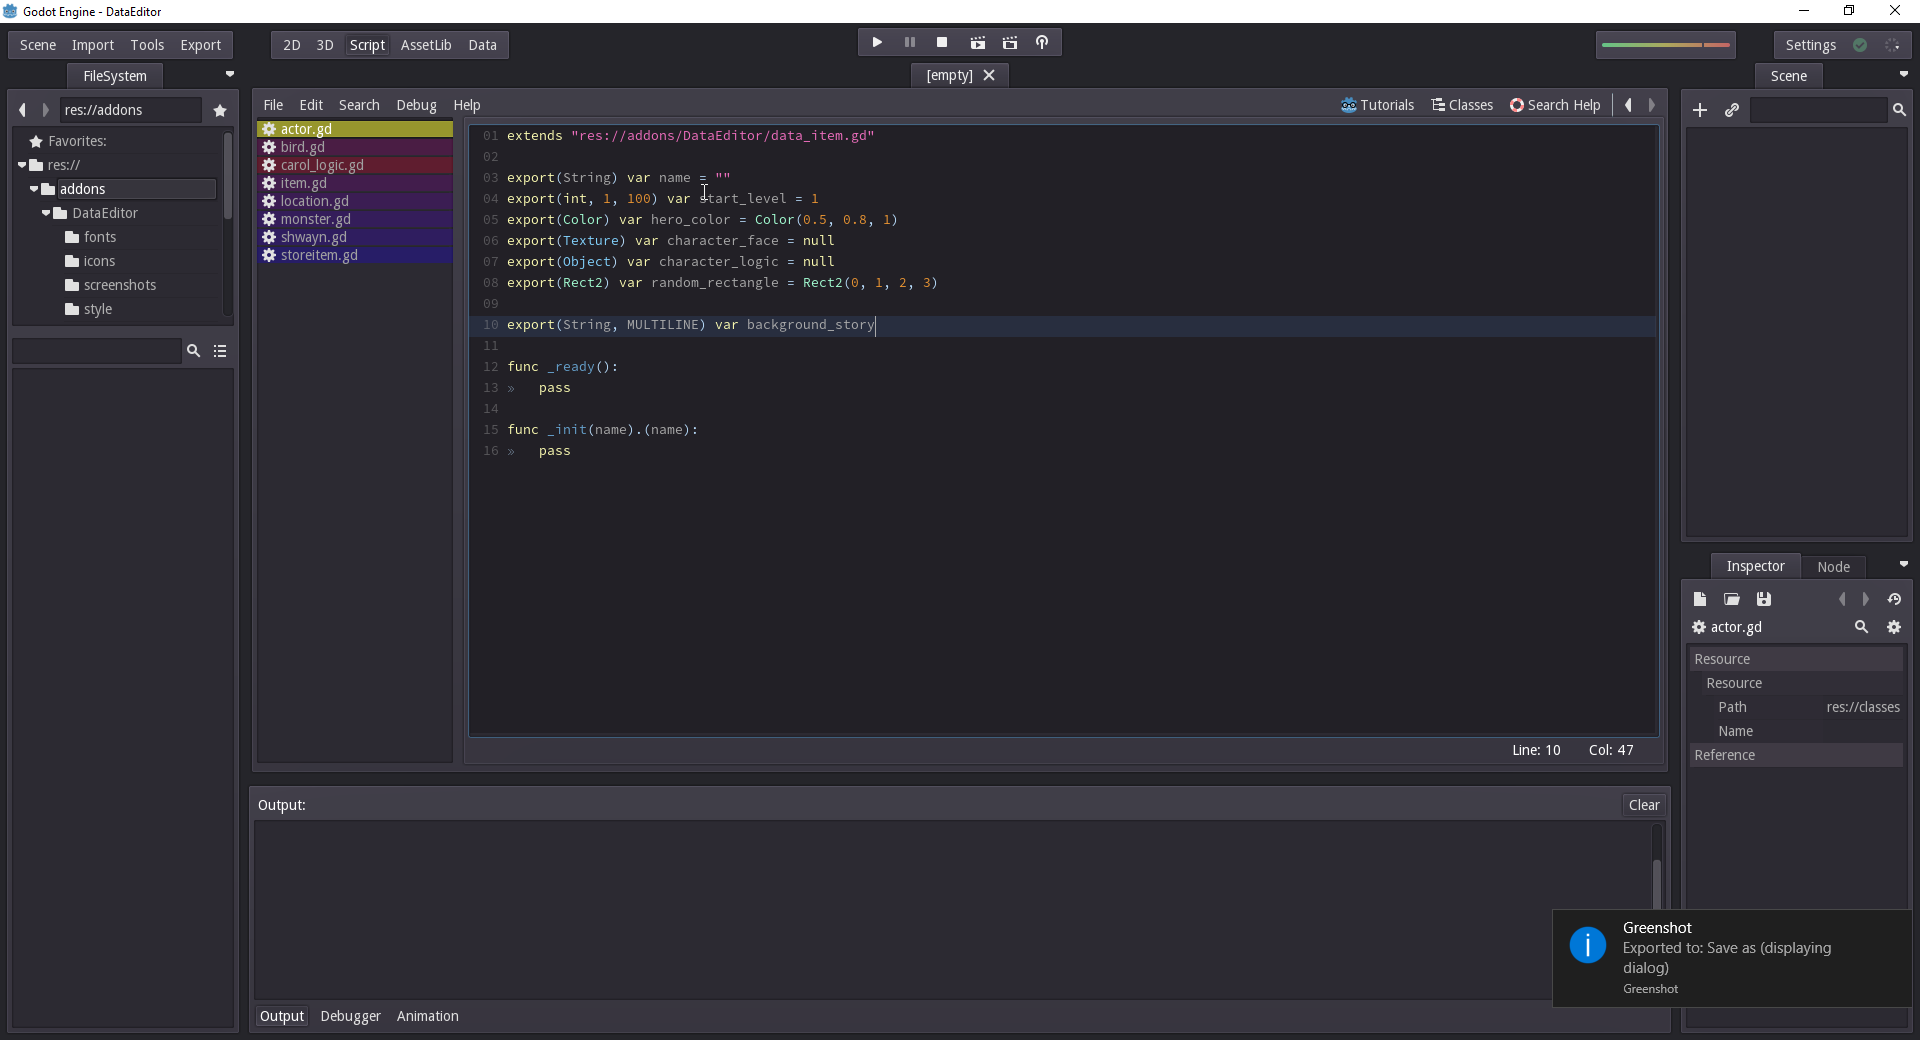
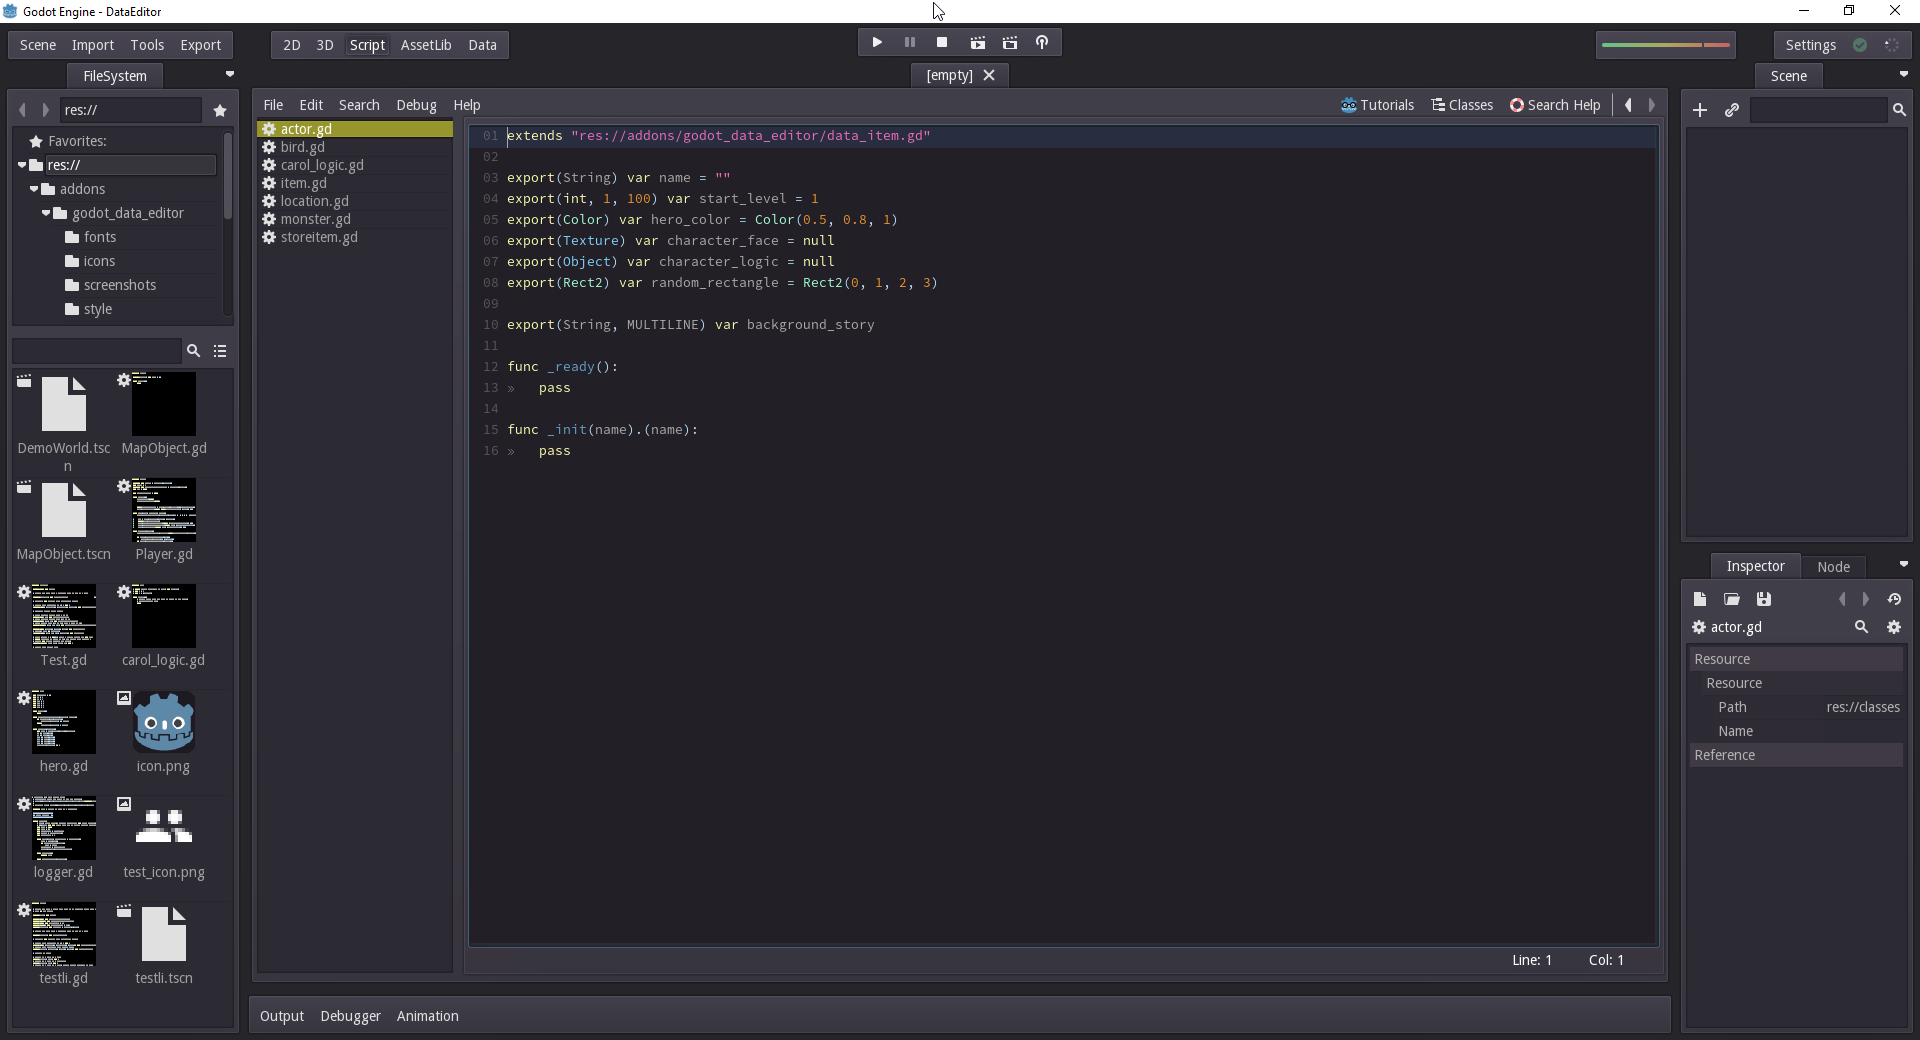
Renamed the plugin to godot_data_editor

diff --git a/README.md b/README.md
@@ -18,10 +18,10 @@ This repository hosts a plugin for the [Godot Engine]. It allows users to enter 
 # Installation
 * Open your project folder, e.g. "../MyGame/"
 * Create a folder named "addons" (if not already present)
-* In addons, create a folder named "DataEditor" 
+* In addons, create a folder named "godot_data_editor" 
 * Copy the content of this repository into it. You may remove the "sceenshots"  ;)
 * Open your project in the editor and navigate to the plugin (Scene -> Project Settings -> Plugins)
-* The plugin "DataEditor" should now appear, change the status from "Inactive" to "Active"
+* The plugin "godot_data_editor" should now appear, change the status from "Inactive" to "Active"
 * Restart the editor to make sure that the _data_ singleton is loaded properly
 
 I intend to upload the plugin to the AssetLib, once I feel it is stable enough.
